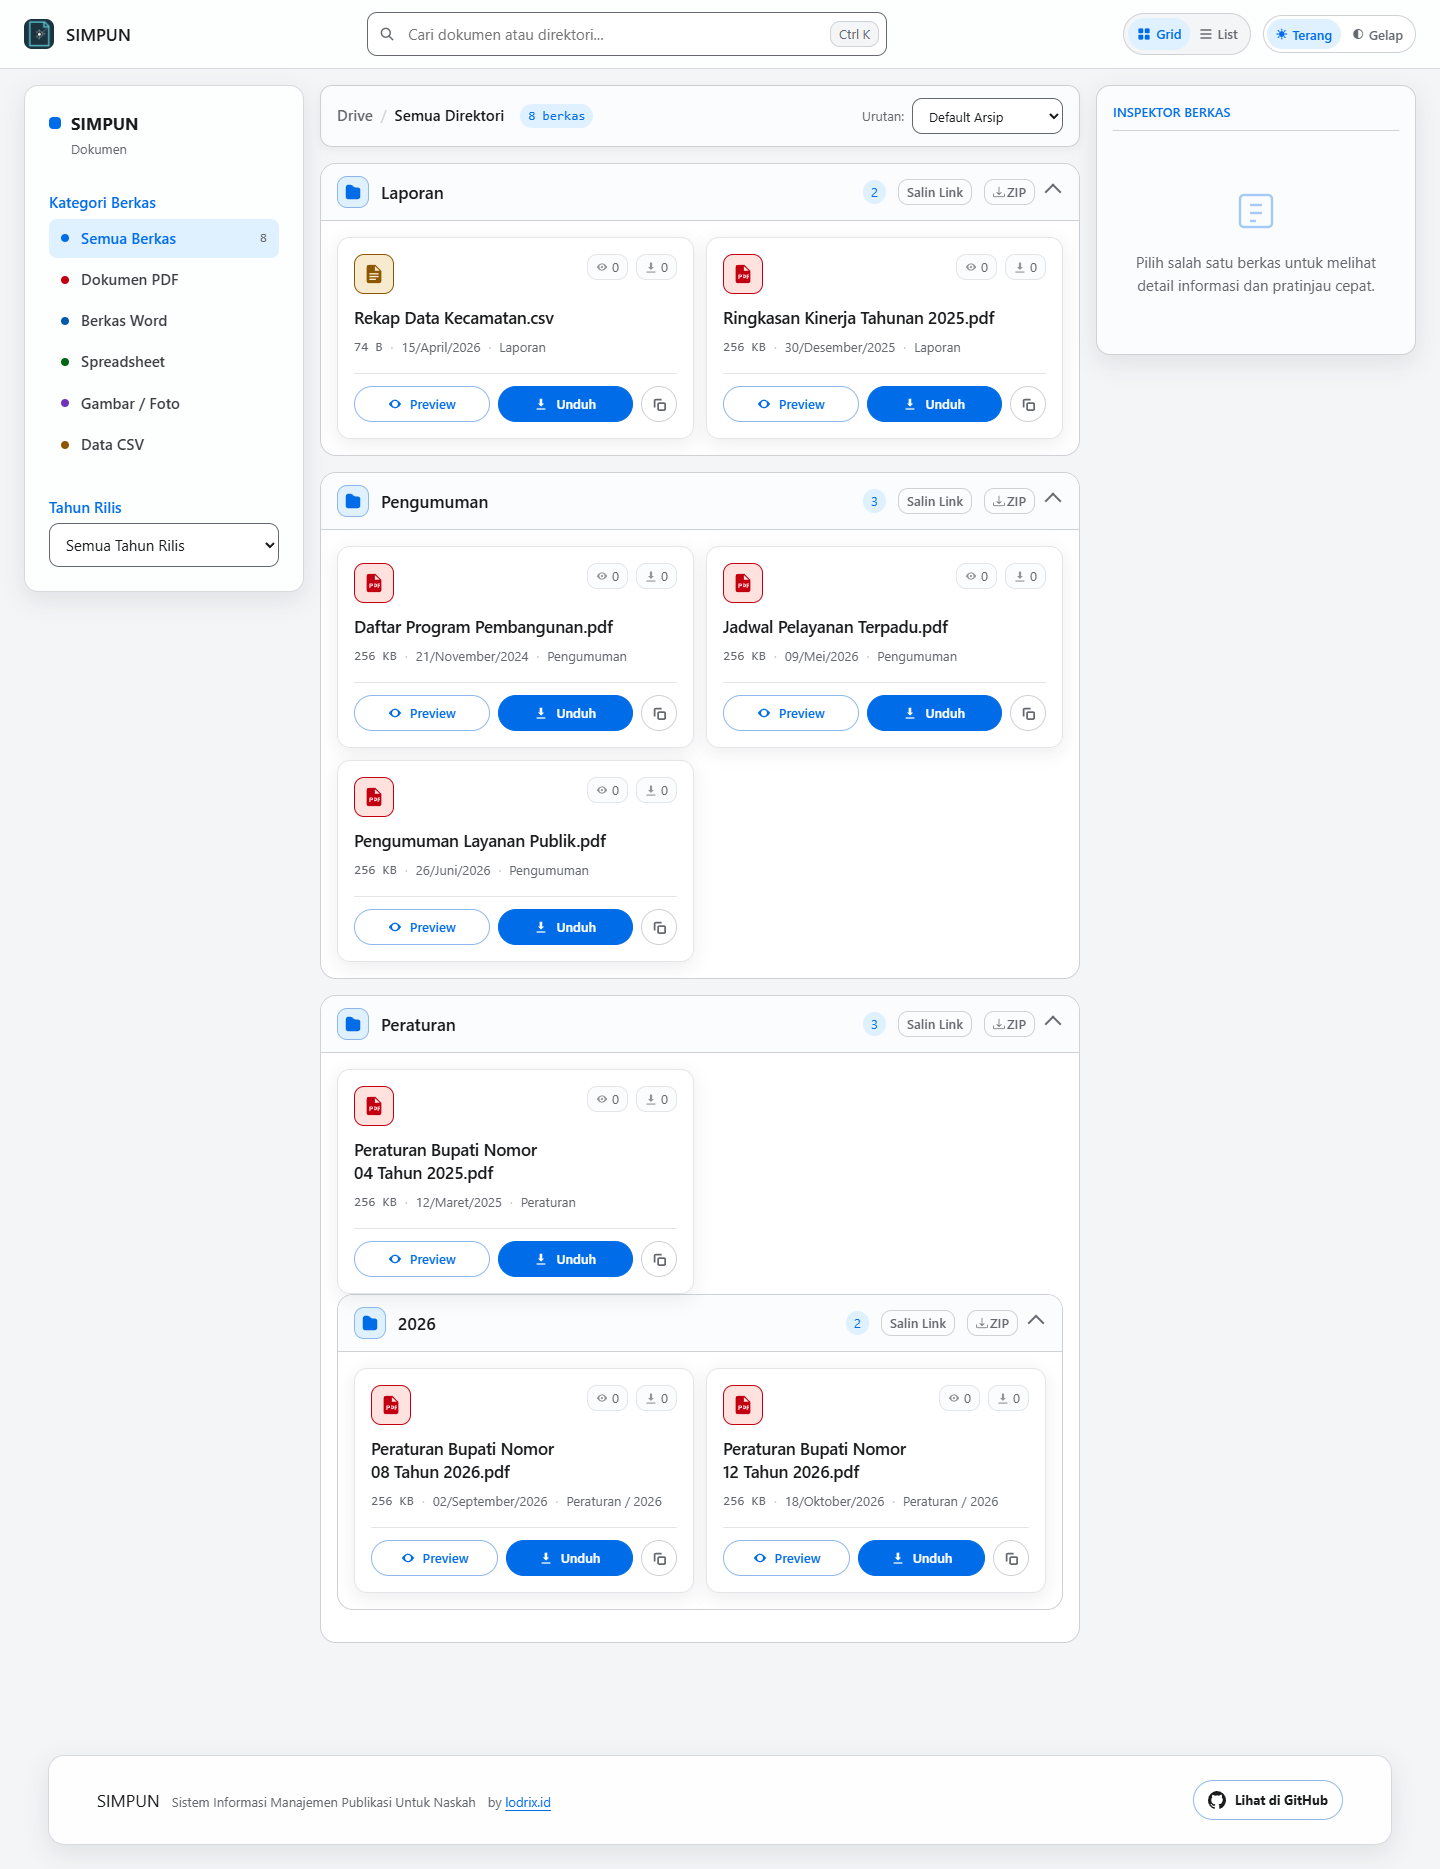
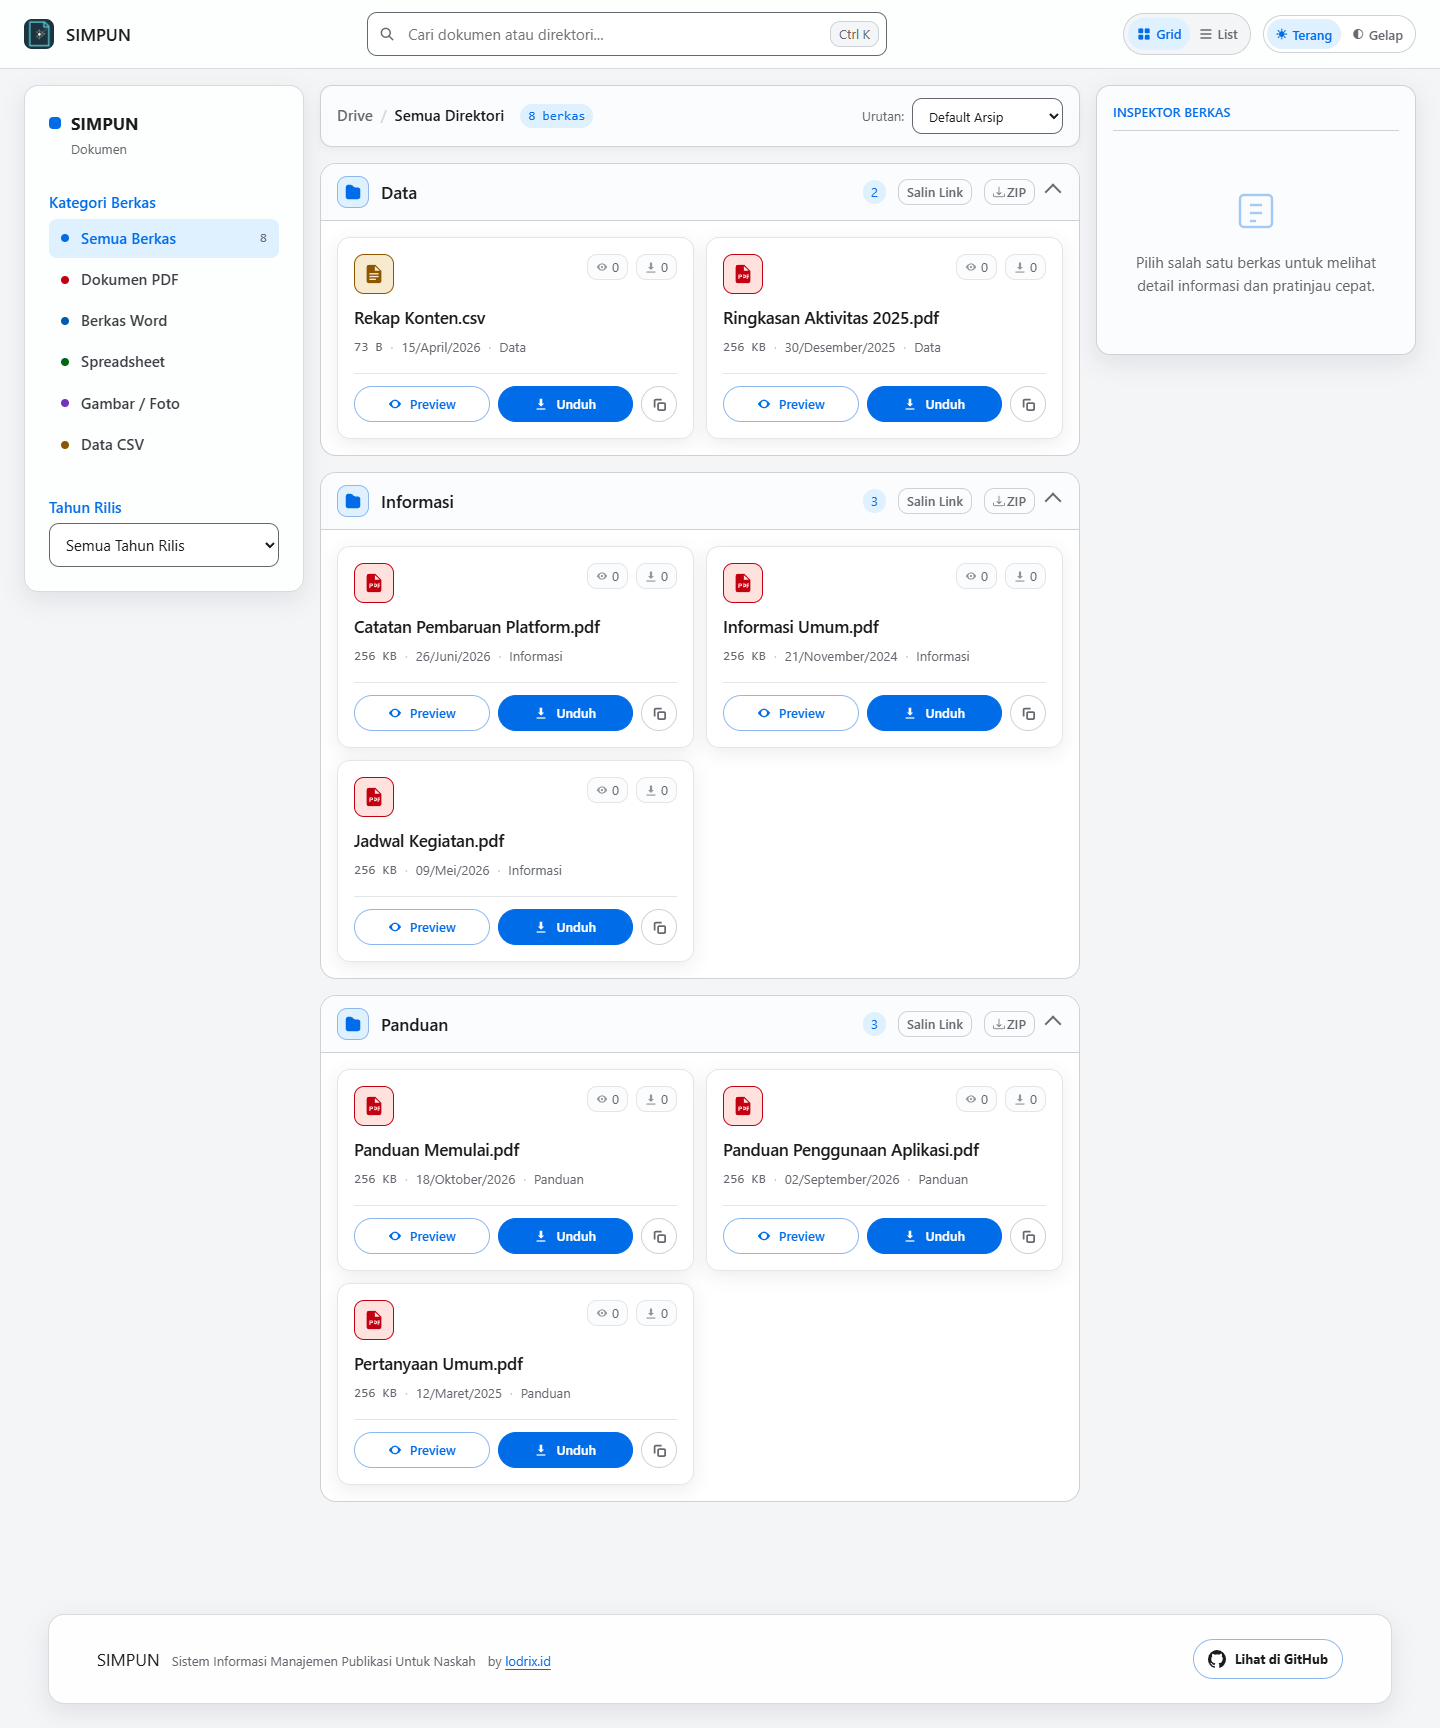
docs: use generic sample names in screenshots

diff --git a/README.md b/README.md
@@ -36,7 +36,7 @@ Metadata disimpan sebagai berkas di `data/`, sedangkan dokumen berada di `Files/
   <img src="docs/screenshots/app-explorer-hud-dark.png" alt="Explorer aplikasi SIMPUN asli dengan dokumen contoh sintetis, tema Futuristic HUD" width="100%">
 </p>
 
-<p align="center"><sub>Screenshot diambil langsung dari aplikasi SIMPUN. Seluruh nama dan isi dokumen yang terlihat adalah contoh sintetis, bukan arsip instansi nyata.</sub></p>
+<p align="center"><sub>Screenshot diambil langsung dari aplikasi SIMPUN. Nama folder dan dokumen bersifat umum; seluruh data adalah contoh sintetis, bukan arsip instansi nyata.</sub></p>
 
 <details>
   <summary>Lihat screenshot aplikasi lainnya</summary>
